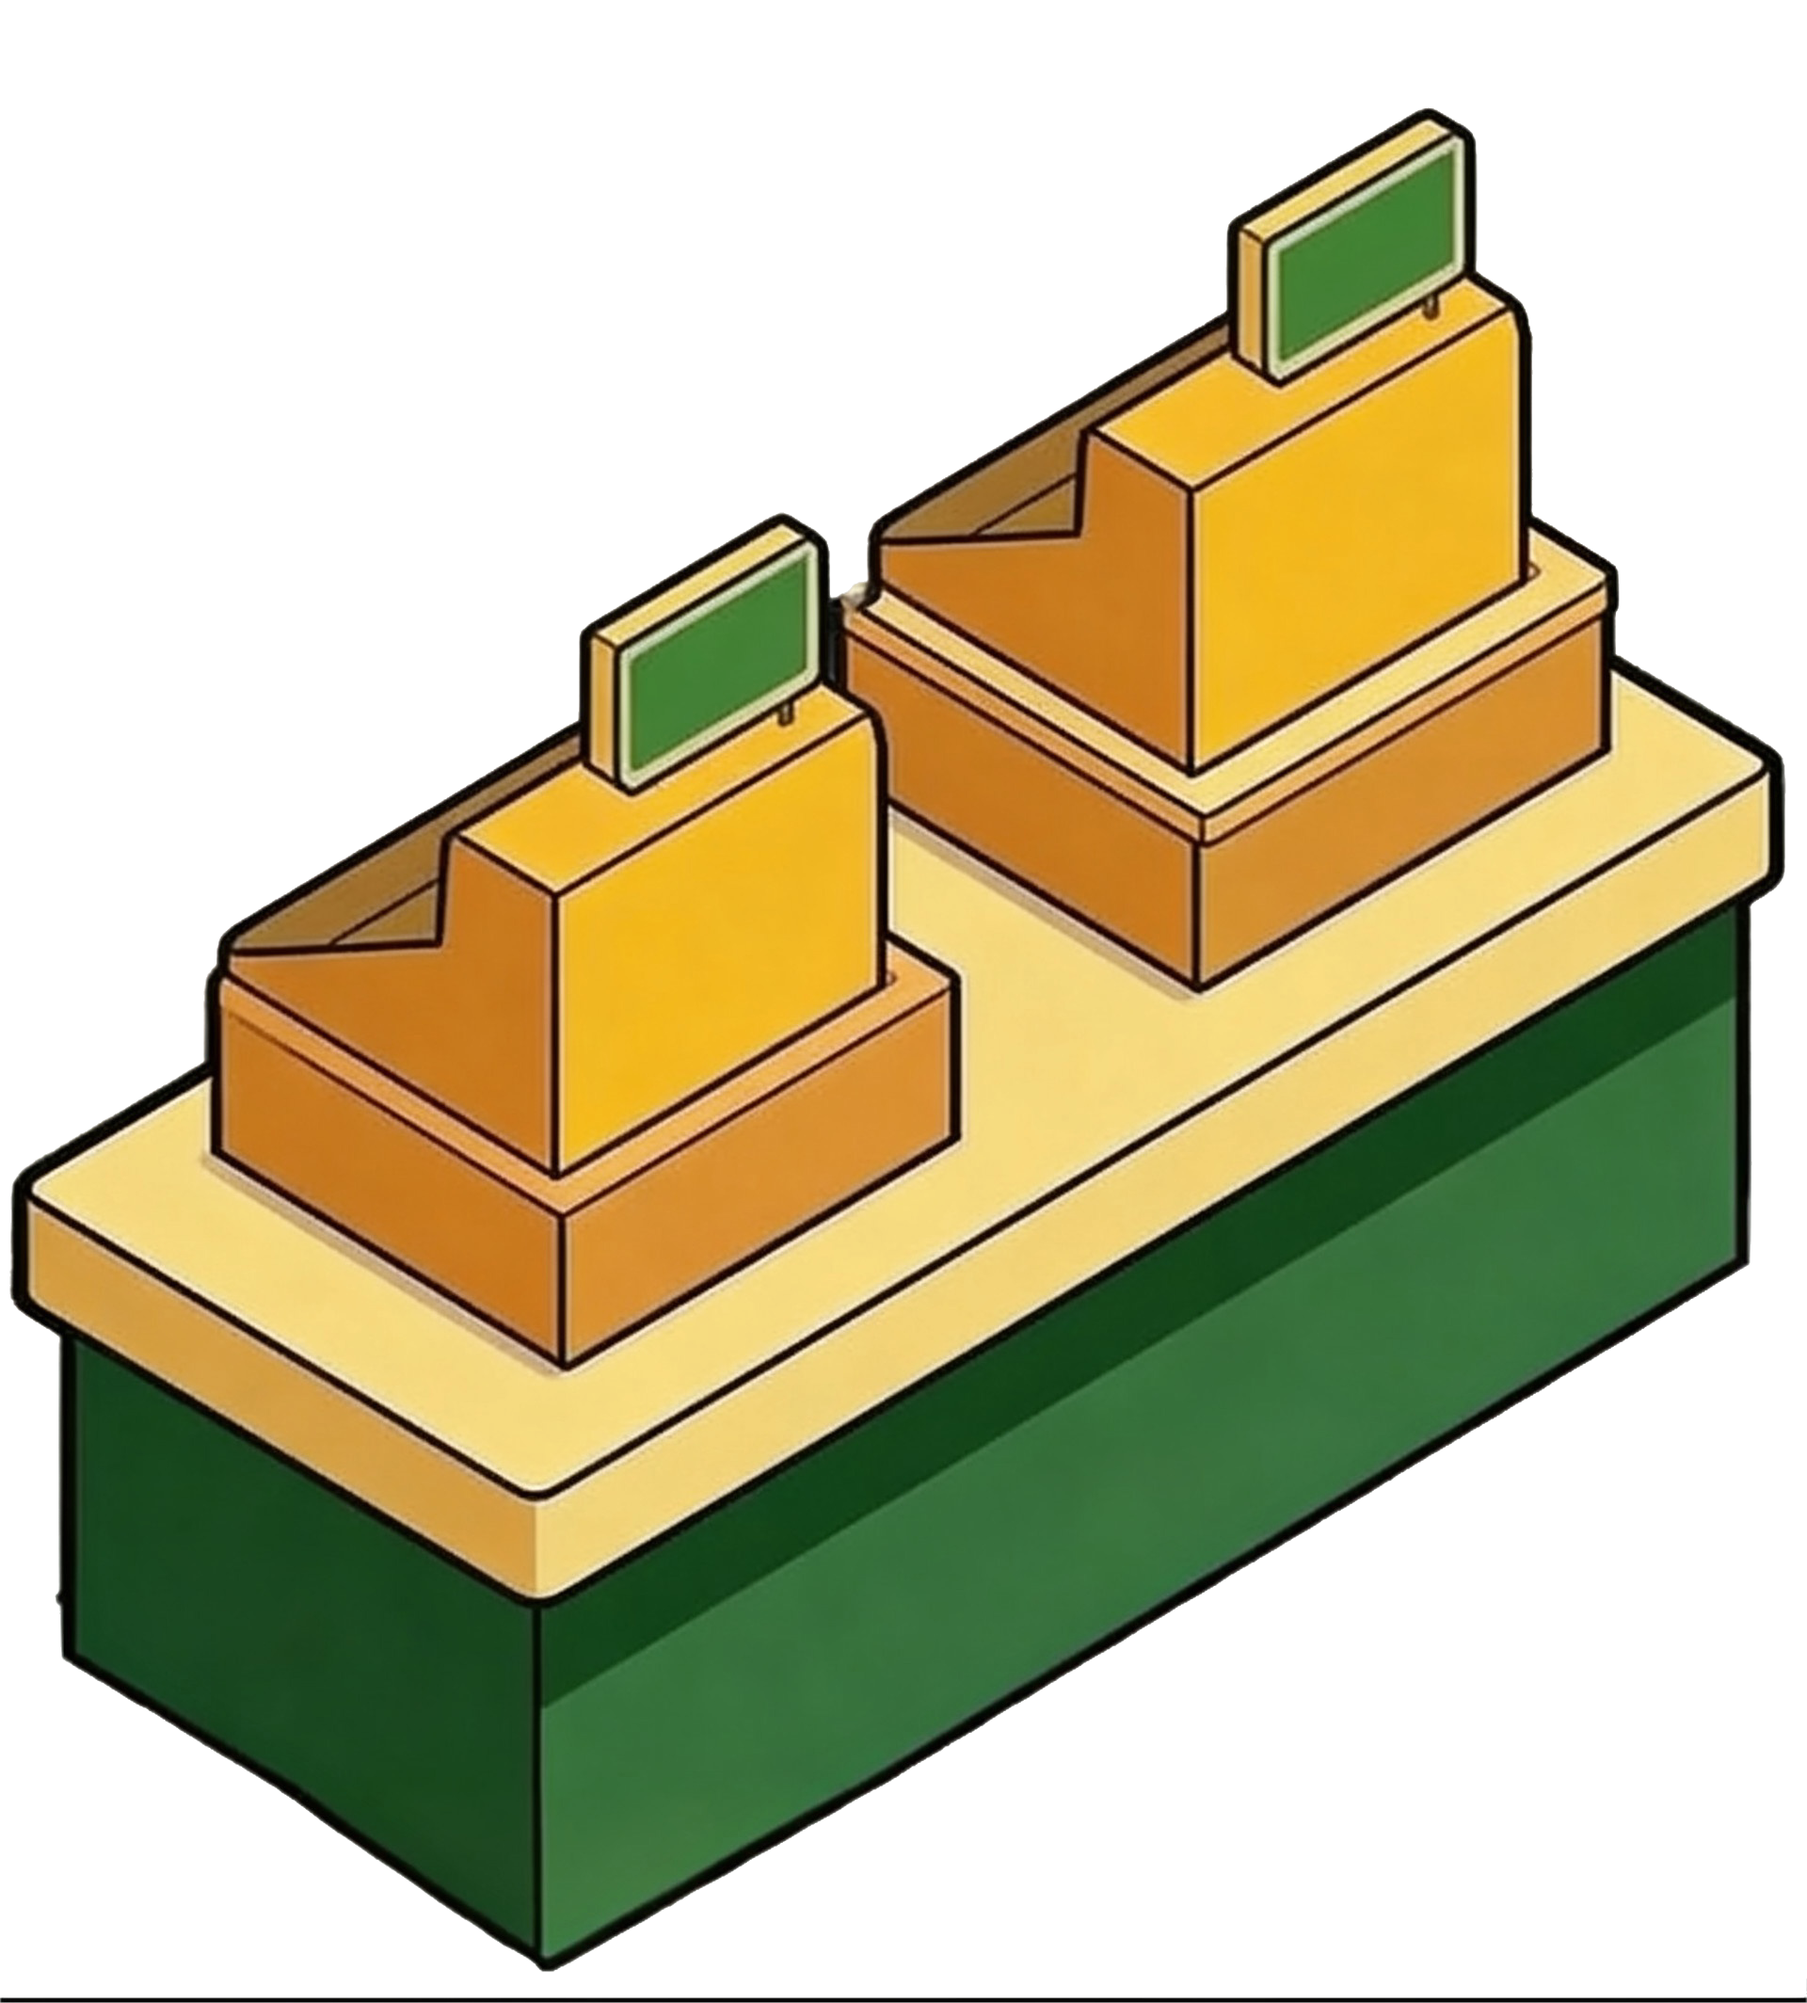
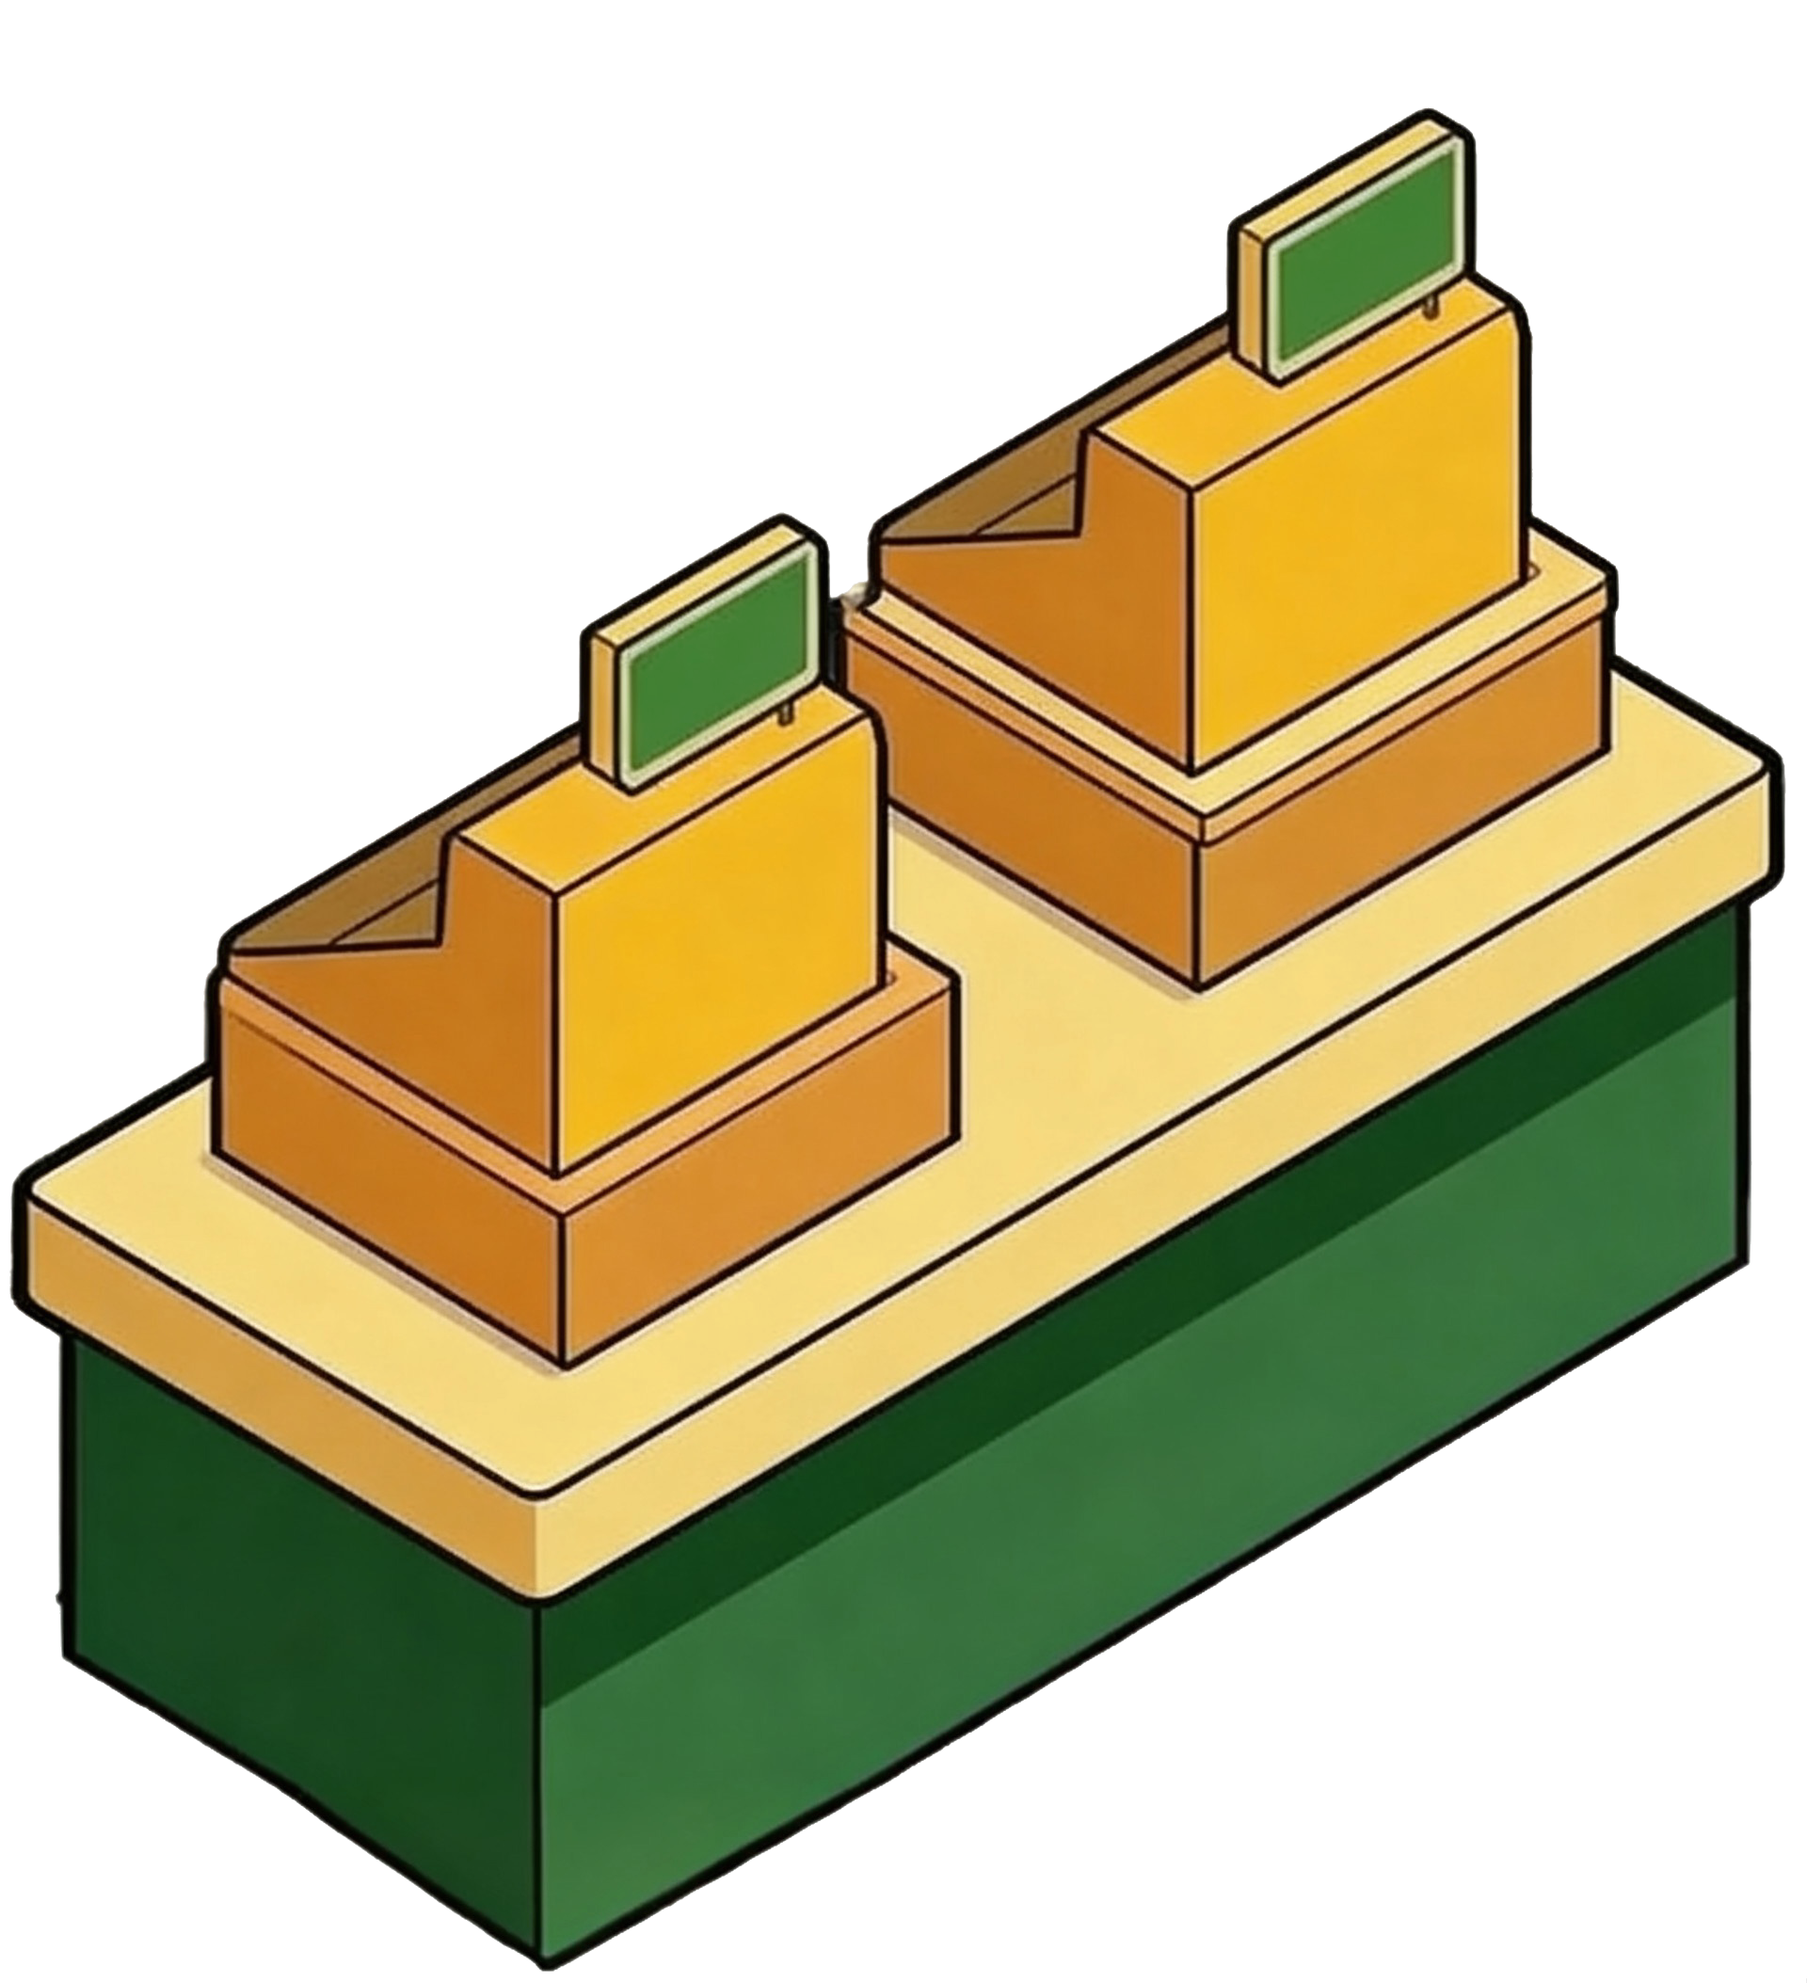
some animation

diff --git a/src/components/visualization/AnimateMap.jsx b/src/components/visualization/AnimateMap.jsx
@@ -3,70 +3,80 @@ import { stationPositions } from '../../utils/stationPositions';
 import { useSimulationStore } from '../../store/useSimulationStore';
 
 export function AnimatedMap({ employeesByStation }) {
-  const { setSelectedStationKey } = useSimulationStore();
+    const { setSelectedStationKey } = useSimulationStore();
 
-  return (
-    <div style={{ position: 'relative', maxWidth: '1200px', margin: '0 auto' }}>
-      {/* Фон зала */}
-      <img 
-        src="/assets/background.png"
-        style={{ 
-            width: '70%',              // стало 80% от родительского контейнера
-            display: 'block', 
-            margin: '0 auto',          // центрируем по горизонтали
-            borderRadius: '20px', 
-            userSelect: 'none' 
-        }}
-        />
+    return (
+        <div style={{ position: 'relative', maxWidth: '1200px', margin: '0 auto' }}>
+            {/* Фон зала */}
+            <img
+                src="/assets/background.png"
+                alt="Background"
+                style={{
+                    width: '70%',
+                    display: 'block',
+                    margin: '0 auto',
+                    borderRadius: '20px',
+                    userSelect: 'none'
+                }}
+            />
 
-      {/* Станции поверх фона */}
-        {Object.entries(stationPositions).map(([key, pos]) => {
-            // Определяем, является ли эта станция прилавком или "C"
-            const isCounter =  key === 'C';
+            {/* Станции поверх фона */}
+            {Object.entries(stationPositions).map(([key, pos]) => {
+                const isCounter = key === 'C';
+                const isTS = key === 'TS'; // Новое условие
 
-            // Выносим блок с человечками в переменную, чтобы не дублировать код
-            const employeesBlock = (
-                <div style={{ display: 'flex', flexWrap: 'wrap', justifyContent: 'center', gap: '6px', margin: '8px 0' }}>
-                    {(employeesByStation[key] || []).map(empId => (
-                        <EmployeeIcon key={empId} employeeId={empId} />
-                    ))}
-                </div>
-            );
-
-            return (
-                <div
-                    key={key}
-                    style={{
-                        position: 'absolute',
-                        top: pos.top,
-                        left: pos.left,
-                        transform: 'translate(-50%, -50%)',
-                        width: pos.width,
-                        cursor: 'pointer',
-                        textAlign: 'center'
-                    }}
-                    onClick={() => setSelectedStationKey(key)}
-                >
-                    {/* 1. Если это прилавок, рисуем человечков СВЕРХУ */}
-                    {isCounter && employeesBlock}
-
-                    {/* Картинка мебели */}
-                    <img
-                        src={`/assets/stations/${pos.img}`}
-                        alt={pos.name}
-                        style={{ width: '100%', objectFit: 'contain', pointerEvents: 'none' }}
-                    />
-
-                    {/* 2. Если это НЕ прилавок, рисуем человечков СНИЗУ */}
-                    {!isCounter && employeesBlock}
-
-                    {/* Мини-индикатор количества всегда внизу */}
-                    <div style={{ fontSize: '0.7rem', background: 'rgba(0,0,0,0.5)', color: 'white', borderRadius: '12px', padding: '2px 6px', marginTop: '4px', display: 'inline-block' }}>
-                        {(employeesByStation[key] || []).length}
+                const employeesBlock = (
+                    <div style={{ display: 'flex', flexWrap: 'wrap', justifyContent: 'center', gap: '6px', margin: '8px 0' }}>
+                        {(employeesByStation[key] || []).map(empId => (
+                            <EmployeeIcon key={empId} employeeId={empId} />
+                        ))}
                     </div>
-                </div>
-            );
-        })}
-    </div>
-  );
+                );
+
+                return (
+                    <div
+                        key={key}
+                        style={{
+                            position: 'absolute',
+                            top: pos.top,
+                            left: pos.left,
+                            transform: 'translate(-50%, -50%)',
+                            width: pos.width,
+                            cursor: 'pointer',
+                            textAlign: 'center'
+                        }}
+                        onClick={() => setSelectedStationKey(key)}
+                    >
+                        {/* 1. Человечки СВЕРХУ для прилавка */}
+                        {isCounter && employeesBlock}
+
+                        {/* Картинка мебели: НЕ отображаем, если это TS */}
+                        {!isTS && (
+                            <img
+                                src={`/assets/stations/${pos.img}`}
+                                alt={pos.name}
+                                style={{ width: '100%', objectFit: 'contain', pointerEvents: 'none' }}
+                            />
+                        )}
+
+                        {/* 2. Человечки СНИЗУ для остальных станций */}
+                        {!isCounter && employeesBlock}
+
+                        {/* Мини-индикатор количества */}
+                        <div style={{
+                            fontSize: '0.7rem',
+                            background: 'rgba(0,0,0,0.5)',
+                            color: 'white',
+                            borderRadius: '12px',
+                            padding: '2px 6px',
+                            marginTop: '4px',
+                            display: 'inline-block'
+                        }}>
+                            {(employeesByStation[key] || []).length}
+                        </div>
+                    </div>
+                );
+            })} {/* <--- Вот эта скобка (90 строка) теперь должна закрываться корректно */}
+        </div>
+    );
 }

diff --git a/src/components/visualization/EmployeeIcon.jsx b/src/components/visualization/EmployeeIcon.jsx
@@ -11,15 +11,24 @@ export function EmployeeIcon({ employeeId }) {
 
   return (
     <AnimatePresence mode="wait">
-      <motion.div
-        key={employeeId}
-        className="employee-icon"
-        style={{ backgroundImage: `url(/assets/cooker.png)` }}
-        {...animation}
-      >
-        <ParticleEffect />
-        <span className="employee-tooltip">{employeeId}</span>
-      </motion.div>
+        <motion.div
+            key={employeeId}
+            className="employee-icon"
+            style={{
+                backgroundImage: `url(/assets/animated_cook.gif)`,
+                position: 'relative',
+                // Уменьшаем сам контейнер
+                width: '70px',
+                height: '70px',
+                // 'contain' гарантирует, что гифка впишется в эти размеры целиком без обрезки
+                backgroundSize: 'contain',
+                backgroundRepeat: 'no-repeat',
+                backgroundPosition: 'center',
+            }}
+            {...animation}
+        >
+            <ParticleEffect />
+        </motion.div>
     </AnimatePresence>
   )
 }

diff --git a/src/components/visualization/StationCard.jsx b/src/components/visualization/StationCard.jsx
@@ -3,7 +3,6 @@ import { ProgressBar } from '../common/ProgressBar'
 
 const stationNames = {
   C: 'Прилавок',
-  C2: 'Прилавок',
   K: 'Кухня',
   K2: 'Кухня',
   BVR: 'Напитки',
@@ -12,12 +11,11 @@ const stationNames = {
 }
 
 const stationIcons = {
-  C: 'counter.png',
-  C2: 'counter.png',
-  K: 'kitchen.png',
+  C: 'counter2.png',
+  K: 'kitchen2.png',
   K2: 'kitchen.png',
-  BVR: 'drinks.png',
-  FF: 'fries.png',
+  BVR: 'cup2.png',
+  FF: 'fries2.png',
   TS: 'hall.png'
 }
 
@@ -29,11 +27,6 @@ export function StationCard({ stationKey, employeeIds, requiredCount, onSelect }
         src={`/assets/stations/${stationIcons[stationKey]}`}
         alt={stationNames[stationKey]}
       />
-      <div className="employees-list">
-        {employeeIds.map(empId => (
-          <EmployeeIcon key={empId} employeeId={empId} />
-        ))}
-      </div>
       <ProgressBar actual={actualCount} required={requiredCount} />
       <div style={{ fontSize: '0.8rem', textAlign: 'center', marginTop: '4px' }}>
         {actualCount} / {requiredCount}

diff --git a/src/utils/stationPositions.js b/src/utils/stationPositions.js
@@ -19,10 +19,10 @@
 
 
 export const stationPositions = {
-  C: { top: '73%', left: '50%', width: '150px', img: 'counter.png', name: 'Прилавок' },
+  C: { top: '69%', left: '50%', width: '150px', img: 'counter.png', name: 'Прилавок' },
   K: { top: '22%', left: '50%', width: '150px', img: 'kitchen.png', name: 'Кухня' },
-  K2: { top: '29%', left: '58%', width: '150px', img: 'kitchen.png', name: 'Кухня' },
-  BVR: { top: '53%', left: '22%', width: '150px', img: 'drinks.png', name: 'Напитки' },
-  FF: { top: '42%', left: '32%', width: '150px', img: 'fries.png', name: 'Фритюр' },
+  K2: { top: '33%', left: '63%', width: '150px', img: 'kitchen.png', name: 'Кухня' },
+  BVR: { top: '53%', left: '25%', width: '150px', img: 'drinks.png', name: 'Напитки' },
+  FF: { top: '44%', left: '35%', width: '150px', img: 'fries.png', name: 'Фритюр' },
   TS: { top: '62%', left: '69%', width: '4%', img: 'hall.png', name: 'Зал' }
 };
